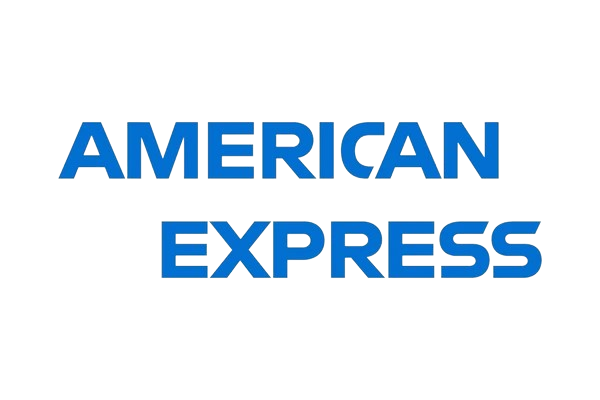
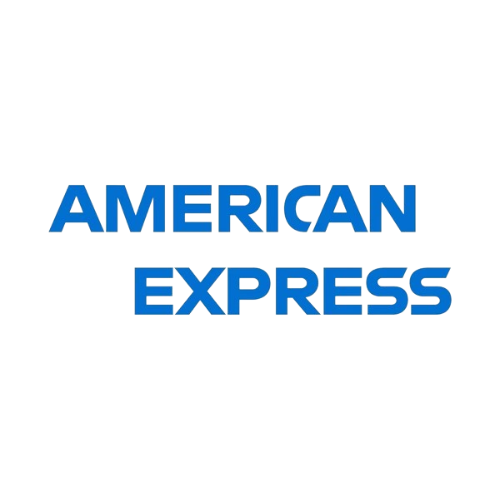
card-carrusel

Changed region(s): [[0.09, 0.3, 0.84, 0.48], [0.27, 0.51, 0.93, 0.72]]

diff --git a/static/src/scss/style_service.scss b/static/src/scss/style_service.scss
@@ -250,3 +250,16 @@
 .container-service-IIII {
   padding: 60px 0px 0px 0px;
 }
+
+.swiper-slide-service img {
+  display: block;
+  width: 70%;
+  height: 70%;
+  object-fit: cover;
+}
+
+.clients-image-service {
+  width: 120px;
+  height: 120px;
+  padding: 0px 10px;
+}
